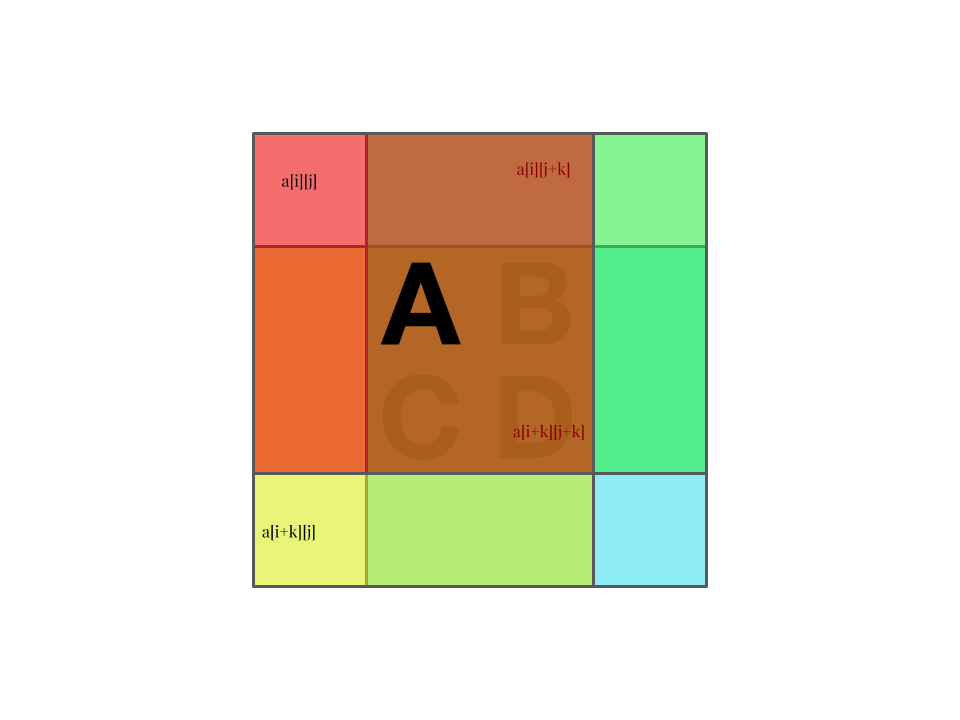
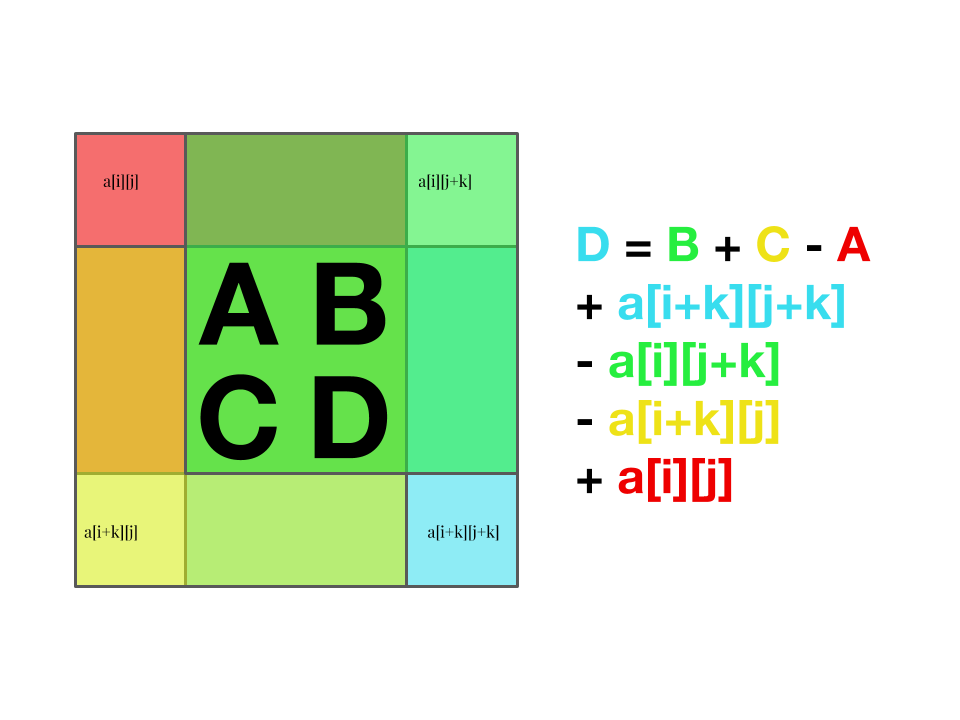
Improved images

diff --git a/README.md b/README.md
@@ -227,12 +227,13 @@ That means 700 * 700 * 1000 <= INT_MAX, so we can use integers.
 The dynamic programming algorithm relies upon a nice geometrical relation.
 
 ![Understanding the recurrence relation](img/6.4_explanation_1.png)
-![Understanding the recurrence relation](img/6.4_explanation_6.png)
-Suppose we want to find the sum of the submatrix D. We can do a constant amount of work to find it by relying on the previous computations.
 ![Understanding the recurrence relation](img/6.4_explanation_2.png)
+Suppose we want to find the sum of the submatrix D. We can do a constant amount of work to find it by relying on the previous computations.
 ![Understanding the recurrence relation](img/6.4_explanation_3.png)
 ![Understanding the recurrence relation](img/6.4_explanation_4.png)
 ![Understanding the recurrence relation](img/6.4_explanation_5.png)
 ![Understanding the recurrence relation](img/6.4_explanation_6.png)
+![Understanding the recurrence relation](img/6.4_explanation_7.png)
+![Understanding the recurrence relation](img/6.4_explanation_8.png)
 
 With this memoization, the solution runs in O(n^2) time rather than the O(n^2k^2) time needed in a naive solution.
